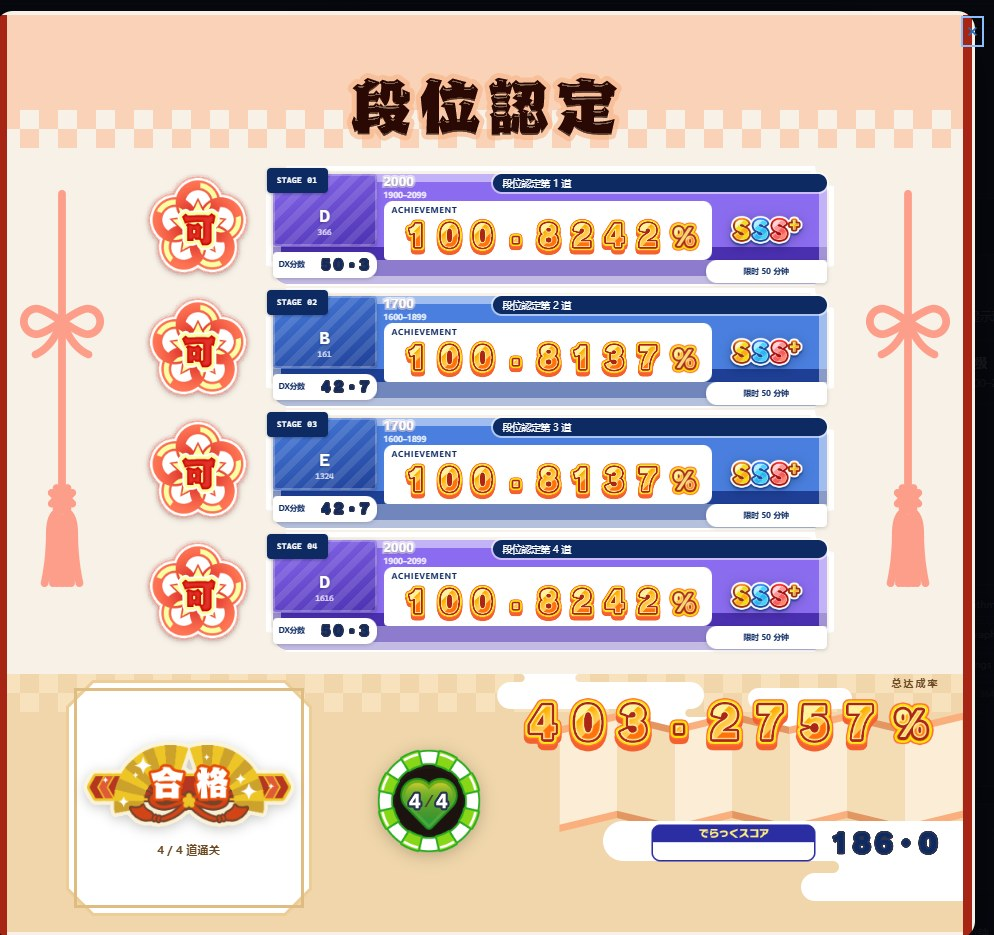
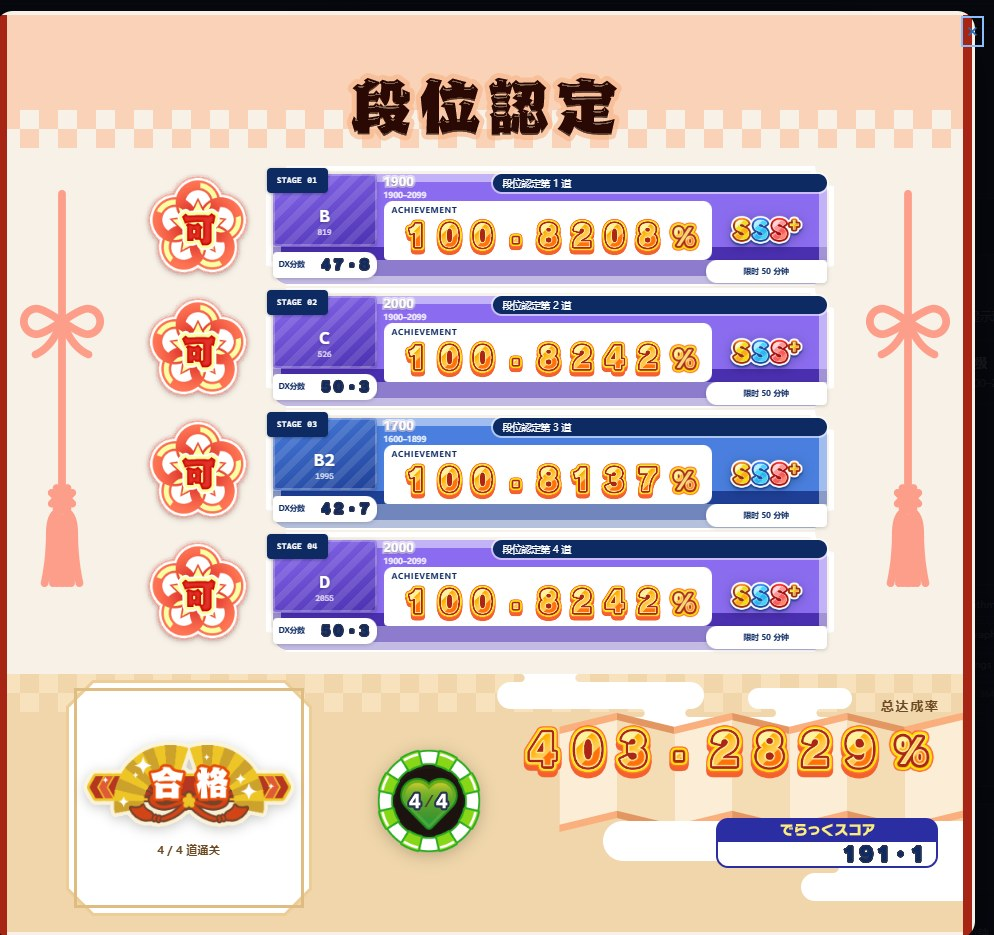
fix: put the DX score inside the official label frame
- 「でらっくスコア」那张官方标签（UI_RSL_DXScore_Base，226×54）本身是个**框**：
  y 0–25 是蓝底白字，y 26–50 留了一块 218×25 的白 —— 那块白就是给分数用的。
  上一版把数字排在框右边，这一版按原尺寸放整张框、数字写进框里那块白
  （padding-right 8px 右对齐），整张框落在底图那条白缎带上。
- 总达成率那一行整体往下挪 22px（top 664 → 686），标签从 .74rem 放大到 .92rem/800，
  跟下面那块框错开、也不再像贴在色带上沿。

E2E 换成量新关系：右下两块右对齐到同一条边（x 945）、DX 数字必须**落在标签框
的框内**、总达成率那行位置与标签高度。单测 314、三个 E2E、像素探针全绿。

diff --git a/public/dan.css b/public/dan.css
@@ -329,20 +329,20 @@
 /* 右边两行**右对齐到同一条边**（x 945）：标签贴着各自数字，不再一个飘在数字上面
  * 一个飘在左下角。 */
 .dan-total-row {
-  position: absolute; left: 470px; top: 664px; width: 475px;
-  display: flex; flex-direction: column; align-items: flex-end; gap: 3px;
+  position: absolute; left: 470px; top: 686px; width: 475px;
+  display: flex; flex-direction: column; align-items: flex-end; gap: 4px;
 }
-.dan-total-label { font-size: .74rem; font-weight: 700; letter-spacing: .16em; color: #6b4a24; }
+.dan-total-label { font-size: .92rem; font-weight: 800; letter-spacing: .14em; color: #6b4a24; }
 .dan-total-num { display: flex; align-items: center; gap: 3px; }
-/* でらっくスコア 那一行**摆在底图那条白缎带上**（缎带实测 y 812–852 / x 609–968）——
- * 官方这一步就是拿缎带当分数面板的；浮在它旁边会剩一块看起来像空框的白。 */
-.dan-dxscore-row {
-  position: absolute; left: 600px; top: 812px; width: 345px; height: 40px;
-  display: flex; align-items: center; justify-content: flex-end; gap: 12px;
+/* 「でらっくスコア」那张官方标签**本身是个框**：上半 226×54 里 y 0–25 是蓝底字，
+ * y 26–50 留了一块 218×25 的白 —— 那块白就是给分数用的，数字要写在框里，
+ * 不是排在框右边。整张按原尺寸放，正好落在底图那条白缎带（y 812–852）上。 */
+.dan-dxscore-row { position: absolute; left: 719px; top: 805px; width: 226px; height: 54px; }
+.dan-dxscore-label { display: block; width: 226px; height: 54px; }
+.dan-dxscore-num {
+  position: absolute; left: 6px; top: 26px; width: 214px; height: 25px;
+  display: flex; align-items: center; justify-content: flex-end; padding-right: 8px;
 }
-/* 官方那张「でらっくスコア」牌 226×54，按 40 高放。 */
-.dan-dxscore-label { width: 167px; height: 40px; object-fit: contain; }
-.dan-dxscore-num { display: flex; align-items: center; }
 
 /* 说明与按钮在成品屏之外（深色底上），不往那张纸上塞东西。 */
 .dan-result-note { margin: 0; max-width: 92ch; justify-self: center; text-align: center; font-size: .78rem; line-height: 1.7; color: #a9b4c4; }

diff --git a/public/dan.js b/public/dan.js
@@ -905,8 +905,9 @@ function openRunResult(run) {
   const totalAchievement = scored.reduce((sum, stage) => sum + stage.achievement, 0);
   field(dialog, '.dan-total-num').replaceChildren(
     scored.length ? achievementNumber(totalAchievement, 60) : numText('—', 'n90', 60, DX_NUM_COLOR));
+  // 数字写在官方标签框里那块白（25px 高）上，所以字高只能到 20 上下。
   field(dialog, '.dan-dxscore-num').replaceChildren(
-    numText(run.totalRating === null ? '—' : String(run.totalRating.toFixed(1)), 'n90', 26, DX_NUM_COLOR));
+    numText(run.totalRating === null ? '—' : String(run.totalRating.toFixed(1)), 'n90', 20, DX_NUM_COLOR));
 
   const deltas = run.stages.map((stage) => stage.comparison?.ratingDelta).filter((value) => typeof value === 'number');
   let note = run.status === 'cleared'

diff --git a/docs/dan.md b/docs/dan.md
@@ -164,7 +164,7 @@ active ──四道全部通关──→ cleared（通过）
 - **组件按官方坐标拼**：底图之上每一件都放在原作预制体（`Process/Course/CourseResultProcess`、逐题行的 `UI_CMN_KOP_TrackData`）量出来的位置上，尺寸也照官方：逐题行 `x 267–843`、第 1 行 `y 152`、行距 `122`（576 宽 = 官方 640 × 0.9）；行首的印是 `108×108`（官方原始尺寸，不是缩过的）；达成率数字字高 `41`；曲绘槽 `104×72`（官方 `JacketImage_S` 113×113 × 0.9 的位置）。这些数字写在 `public/dan.css` 顶部注释里，`dan-settlement-check` 里有一条断言直接量它们（`行内组件互不重叠、也不伸出边框`），底部白框、白缎带的位置也是拿底图逐行数像素量出来的。
 - **逐题卡**：每道一张。左侧一枚原作印（`UI_DNM_Icon_Result_01` 可 / `_02` 不可，未抽到的变灰）；右侧横卡用原作底板 `UI_DNM_Result_musicBase_01` 撑起来，上面再压一层**乐曲边框** —— 版式照官方 `UI_CMN_RSL_KopMBase_*`（640×140）逐像素量出来画：外圈浅色环 + 主色场 + 底部浅色带 + 左侧曲绘槽 + 深蓝标题条（带官方那圈白边）+ 白色达成率框 + 深蓝行首小牌（官方 `JaketTrack`）。**颜色不烘死**：官方那五张（BSC/ADV/EXP/MST/MST_Re）把难度色和难度名都印在图里，套不上我们自己的 CF 分档，所以边框按 `--tc1/--tc2` 上色（`cfRatingColor(...).tone` → `TRACK_TONE`）。
 - **信息分配改了官方的排法**：官方右边一列挤了四件（评级 / 难度分 / 限时 / DX分数），四道并排看下来就是一堵字墙。现在左边是「跟题目走的东西」—— 曲绘槽换成**按档位色上色**的题号牌（官方那格是白底，纯白在满屏深色里就是一块洞），下面挂一块白牌写这道题的单题 rating（`DX分数`）；难度名牌那一格写「档位 rating + CF 区间」（官方烘的是 `MASTER` 这类难度名）；右边只留评级徽章与这道题的限时白牌。达成率大数字 + 官方彩色「%」字形 + 官方评级徽章（`UI_CMN_TabTitle_Rank_*`）仍在中间。
-- **底部色带**：左下白框那一格原作放段位名牌，我们不显示段位名，改成把合格印**盖在白框里面**（之前印比框还大，两边各糊出去 30px）并在印下面写通关题数；中间是原作的剩余生命底盘（`UI_DNM_Base_Life_01` 绿 / `_03` 红）里面写「通关几道」；右边两行**右对齐到同一条边**：`总达成率` + 官方数字图集拼的大数字，以及官方「でらっくスコア」标签（`UI_RSL_DXScore_Base`）+ `DX分数` —— 这一行**摆在底图那条白缎带上**（缎带实测 `y 812–852 / x 609–968`），官方本来就是拿它当分数面板，浮在旁边会剩一块看起来像空框的白。
+- **底部色带**：左下白框那一格原作放段位名牌，我们不显示段位名，改成把合格印**盖在白框里面**（之前印比框还大，两边各糊出去 30px）并在印下面写通关题数；中间是原作的剩余生命底盘（`UI_DNM_Base_Life_01` 绿 / `_03` 红）里面写「通关几道」；右边两块**右对齐到同一条边**（`x 945`）：上面是「总达成率」+ 官方数字图集拼的大数字，下面是官方「でらっくスコア」标签（`UI_RSL_DXScore_Base`）—— **那张标签本身就是个框**：226×54 里 `y 0–25` 是蓝底白字，`y 26–50` 留了一块 `218×25` 的白，那块白就是给分数用的，所以 `DX分数` 的数字写在框里（`padding-right: 8px` 右对齐），不是排在框右边。整张框按原尺寸放，落在底图那条白缎带上（缎带实测 `y 812–852 / x 609–968`）—— 官方本来就拿缎带那一带当分数面板，浮在旁边会剩一块看着像空框的白。
 - 数字不是 CSS 字体画的：**官方数字图集逐格切**。图集是规整 4×4 网格，格子由同名 Sprite 定 rect；白字族每格拆成「官方 `_Outline` 剪影当遮罩上深色（描边）+ 官方填充图集」两层 —— 图集本身是**纯白剪影**（游戏运行时才染色），background 层没法单独染色，所以用两个真元素叠。这套「剪影 + 运行时染色」的能力也直接用在了 DX 分数上（染成帧上的深蓝 `#0d2a63`，见下）。对照表（一张张看出来的）：白字族 `[0-9]` `[10]'+'` `[11]'-'` `[12]','` `[13]'·'`（居中的圆点，就是这套字体的小数点）`[14]'%'`；分数族 `[10]'+'` `[11]'/'` `[12]'%'` `[13]'.'`。
 - **达成率按分数换色**：官方那套 `UI_NUM_Score_0001111_{Blue,Gold,Red}` 是同布局的三色分数图集（自带颜色、不叠描边），末尾的大「%」字形 `UI_RSL_Score_Per_{Blue,Gold,Red}` 同样三色 —— 所以达成率的档位就是三档：`≥100%` 金（SSS/SSS+）、`≥97%` 蓝（S～SS+）、再低红。`scoreTone()` 在 `public/dan.js` 里，换色在同一条 `achievementNumber()` 里做。**官方那张 `UI_NUM_Score_0001111_Base` 是一张空图集**（16 格里一个字形都没有，整张只有几列杂散像素），照它渲染出来就是一片看不见的灰影，别用。
 - **DX 分数不上分数色**：那一格显示的是单题 rating、不是 DX 分数比率，所以三色专门留给达成率；它用白字族剪影染深蓝（跟标题条、标签同一个深蓝）。**所有「没有成绩」的占位「—」也走这套染色**：白字族是纯白剪影，直接铺在白色达成率框或浅色底图上等于看不见。
